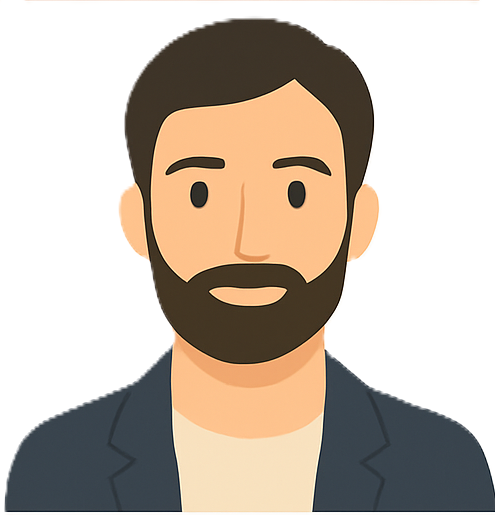
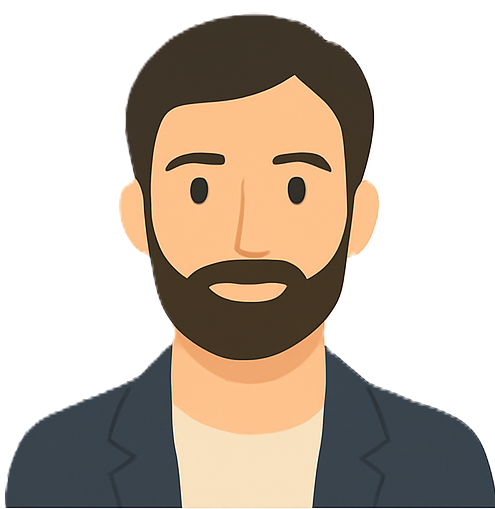
chỉnh sửa: cập nhật tên của vị trí 'Business Analyst' thành 'BA' trong tệp hero.ts và thay đổi tệp hình ảnh male2.png.

diff --git a/src/data/hero.ts b/src/data/hero.ts
@@ -46,7 +46,7 @@ export const listTeams: Team[] = [
     },
   },
   {
-    name: 'Business Analyst',
+    name: 'BA',
     slogan: {
       en: 'Bridging business needs and technology by analyzing requirements, optimizing processes, and ensuring project success',
       vi: 'Kết nối nhu cầu kinh doanh và công nghệ thông qua phân tích yêu cầu, tối ưu quy trình và đảm bảo thành công dự án',
